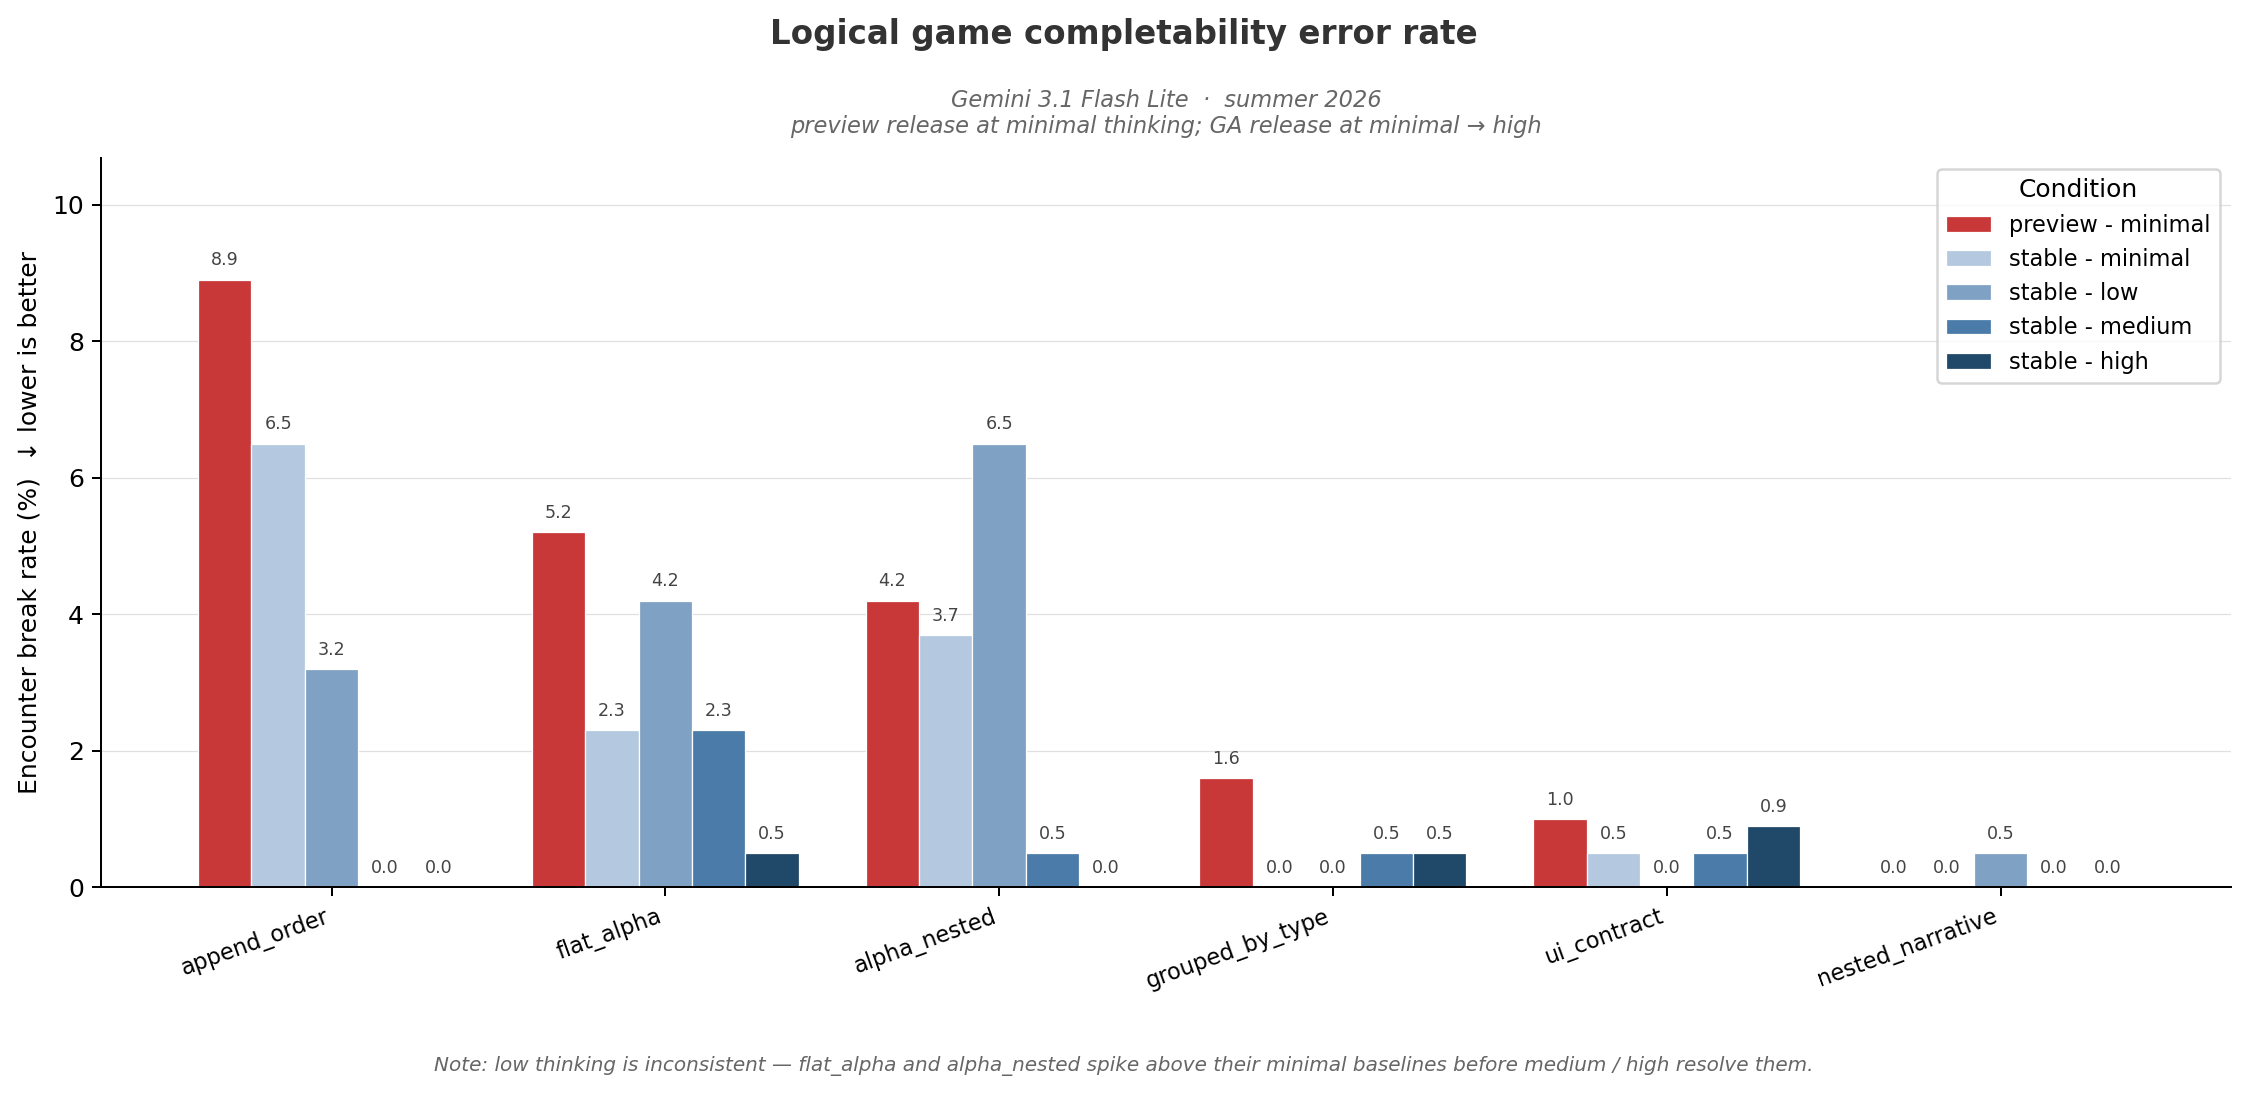
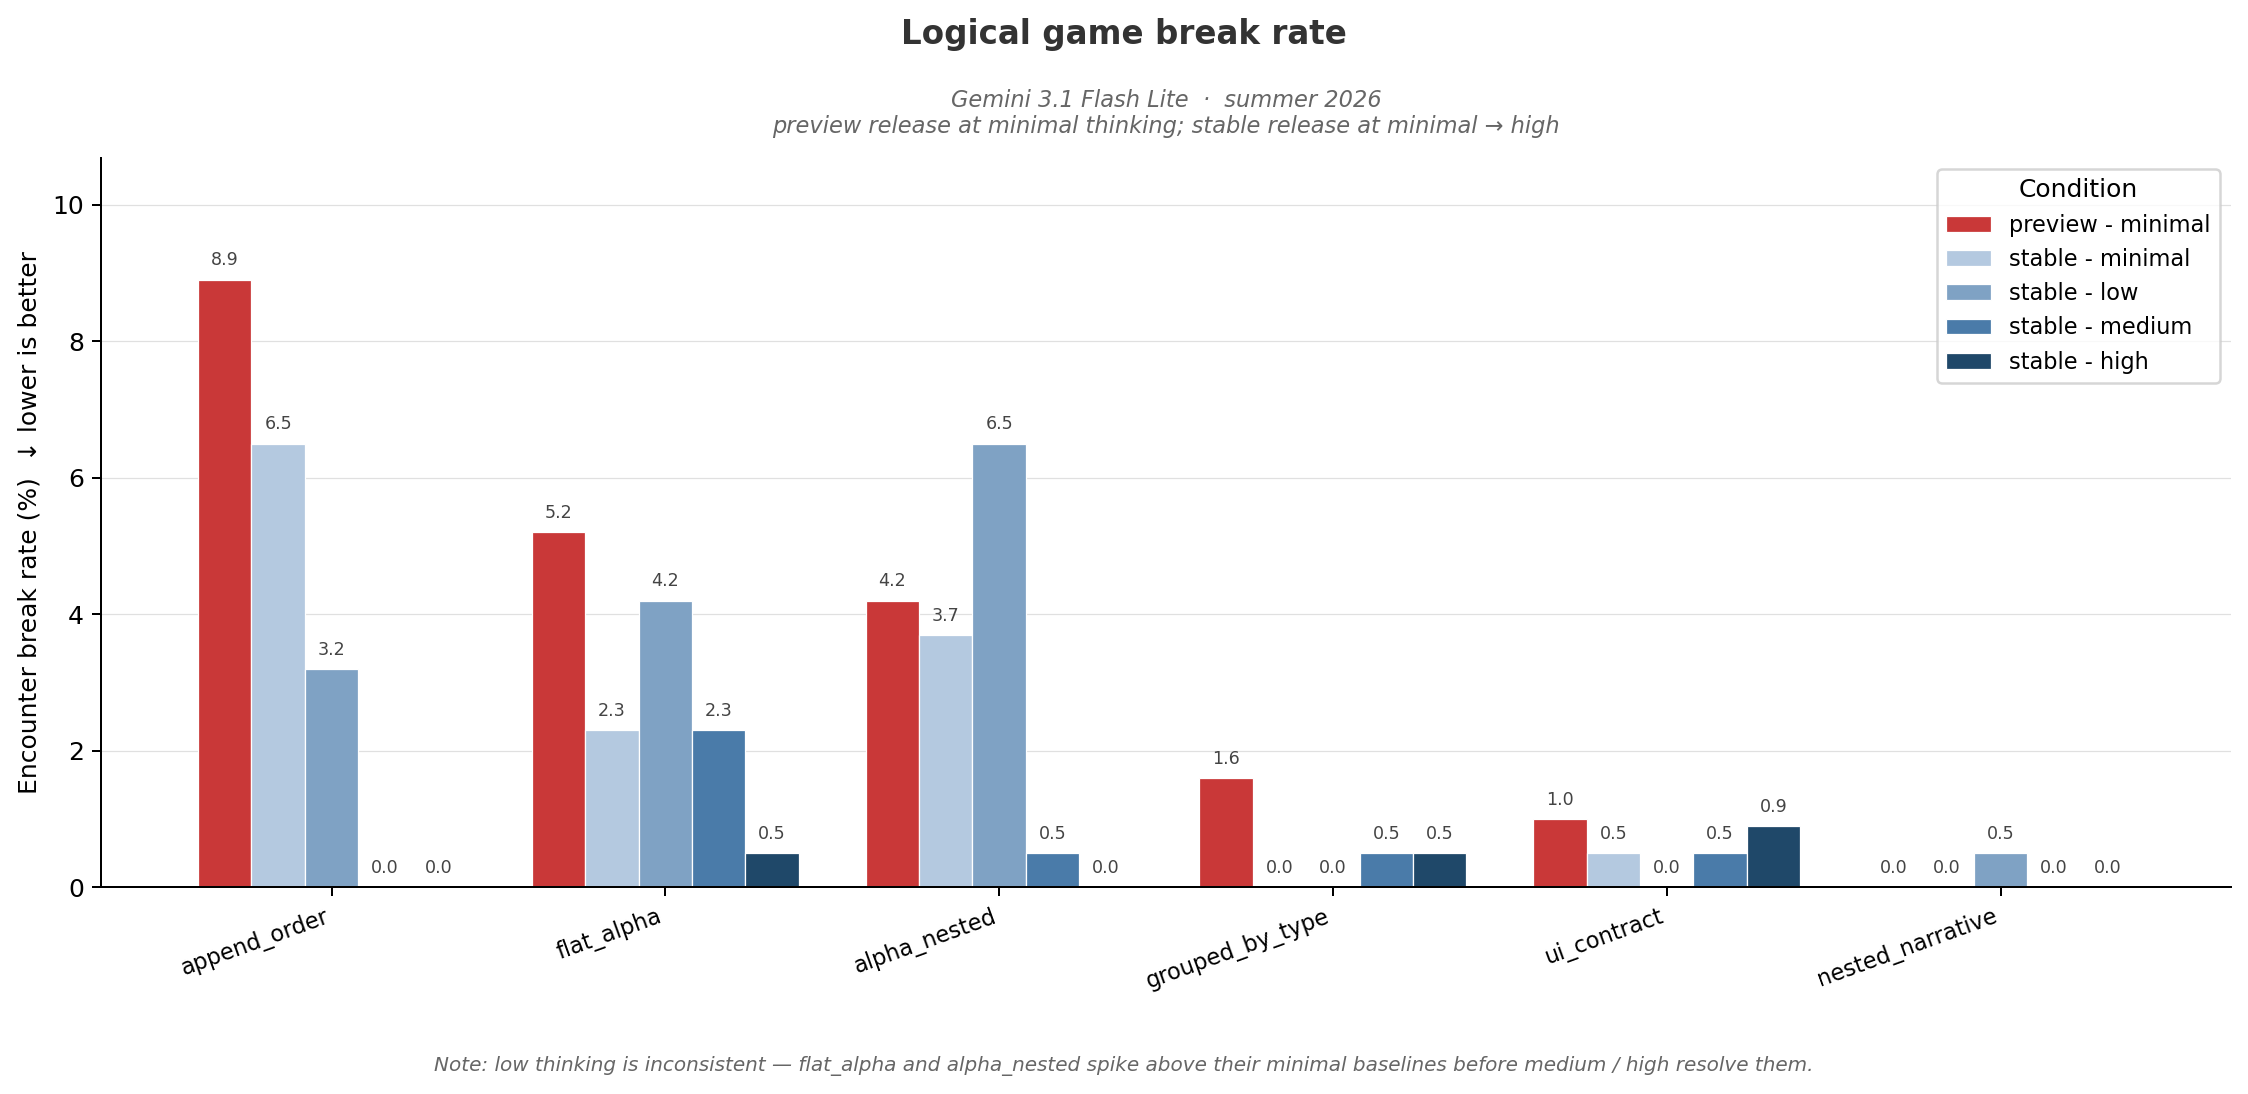
cleanup

Changed region(s): [[0.3425, 0.0, 0.6539, 0.0622], [0.3425, 0.0932, 0.6851, 0.1243]]

diff --git a/src/analysis/reachability.py b/src/analysis/reachability.py
@@ -108,12 +108,12 @@ def _make_chart(wide: pd.DataFrame, out_path: str) -> None:
     ax.set_ylim(0, ymax)
     ax.set_ylabel("Encounter break rate (%)  ↓ lower is better", fontsize=10)
     fig.suptitle(
-        "Logical game completability error rate",
+        "Logical game break rate",
         fontsize=13, fontweight="bold", color="#333333", y=0.985,
     )
     ax.set_title(
         "Gemini 3.1 Flash Lite  ·  summer 2026\n"
-        "preview release at minimal thinking; GA release at minimal → high",
+        "preview release at minimal thinking; stable release at minimal → high",
         fontsize=9, color="#666666", style="italic", pad=10,
     )
     fig.text(

diff --git a/src/analysis/tokens.py b/src/analysis/tokens.py
@@ -96,7 +96,7 @@ def _make_chart(wide: pd.DataFrame, out_path: str) -> None:
     )
     ax.set_title(
         "Gemini 3.1 Flash Lite  ·  summer 2026\n"
-        "preview release at minimal thinking; GA release at minimal → high",
+        "preview release at minimal thinking; stable release at minimal → high",
         fontsize=9, color="#666666", style="italic", pad=10,
     )
     fig.text(